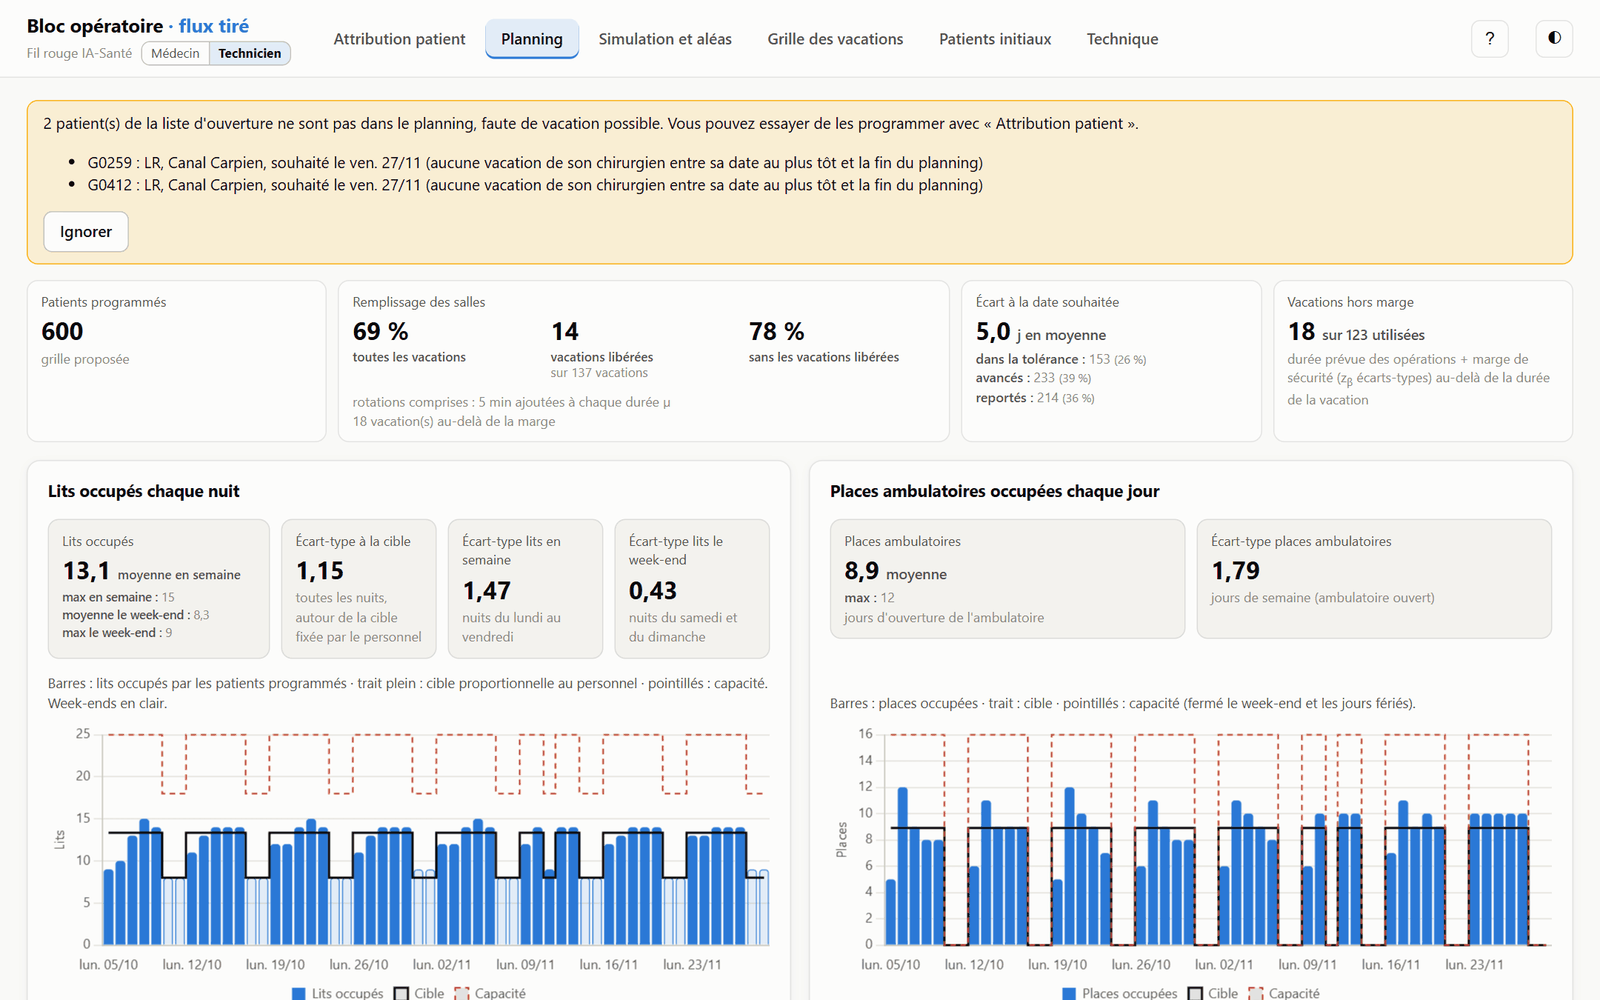
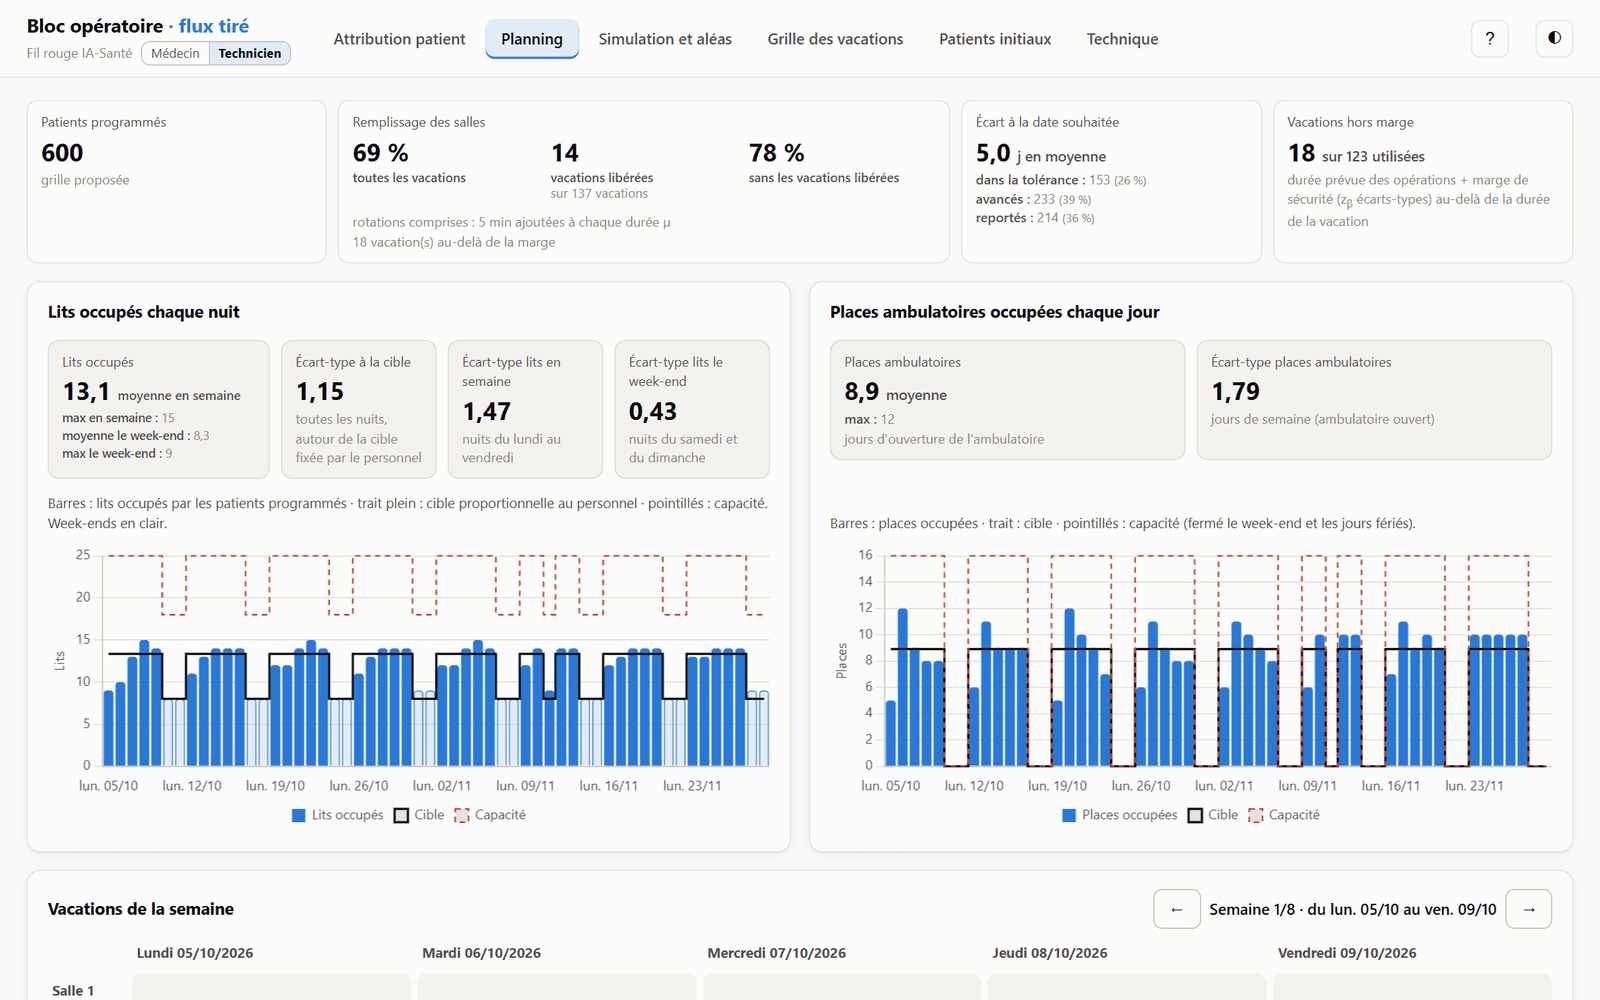
README : besoin, résultats chiffrés, architecture et formule de F
Ajoute le besoin du client, la difficulté du problème, les résultats
(prédiction, comparaison des 8 méthodes, robustesse, grille, poids),
un schéma d'architecture, la formule de F, les technologies et les
limites. Captures du planning et de l'attribution refaites.

diff --git a/README.md b/README.md
@@ -4,13 +4,13 @@
 
 **Programmer les opérations d'un bloc opératoire en tenant compte, en même temps, des salles, des lits d'hospitalisation et des places ambulatoires.**
 
-Projet fil rouge IA-Santé : prédiction par apprentissage automatique, métaheuristiques et système multi-agents
+Outil d'aide à la décision : prédiction par apprentissage automatique, métaheuristiques hybrides et système multi-agents
 
 ![Python](https://img.shields.io/badge/Python-3.11%2B-3776AB?logo=python&logoColor=white)
 ![Flask](https://img.shields.io/badge/Flask-3.1-000000?logo=flask&logoColor=white)
 ![scikit-learn](https://img.shields.io/badge/scikit--learn-1.9-F7931E?logo=scikitlearn&logoColor=white)
 ![Mesa](https://img.shields.io/badge/Mesa-3.5-2E7D32)
-![Tests](https://img.shields.io/badge/tests-pytest-0A9EDC?logo=pytest&logoColor=white)
+![Tests](https://img.shields.io/badge/tests-73%20pytest-0A9EDC?logo=pytest&logoColor=white)
 
 <img src="docs/captures/03_planning.png" alt="Onglet Planning : lits occupés chaque nuit et places ambulatoires occupées chaque jour" width="900">
 
@@ -21,33 +21,73 @@ Projet fil rouge IA-Santé : prédiction par apprentissage automatique, métaheu
 >
 > 👥 **Équipe :** David LANSADE, Robin CURSENTE, Clément MORIN, Rafael LAZAR.
 
+<div align="center">
+
+| 📊 **14 649** | ⚙ **8** | ⏱ **≈ 16 s** | 🛡 **+10 points** |
+|:---:|:---:|:---:|:---:|
+| séjours chirurgicaux réels (2019-2022) pour apprendre | méthodes d'optimisation comparées à budget égal | pour programmer 600 patients sur 8 semaines (meilleur hybride) | de robustesse en situation de crise grâce aux agents |
+
+</div>
+
 ---
 
 ## Sommaire
 
-- [Le problème](#le-problème)
+- [Le besoin](#le-besoin)
+- [Pourquoi c'est difficile](#pourquoi-cest-difficile)
 - [Ce que fait le logiciel](#ce-que-fait-le-logiciel)
 - [Captures d'écran](#captures-décran)
+- [Résultats](#résultats)
+- [Architecture](#architecture)
 - [Installation et lancement](#installation-et-lancement)
 - [Utilisation pas à pas](#utilisation-pas-à-pas)
 - [Comment ça marche](#comment-ça-marche)
+- [Technologies](#technologies)
 - [Structure du dépôt](#structure-du-dépôt)
 - [Pour les développeurs](#pour-les-développeurs)
+- [Limites et pistes](#limites-et-pistes)
 - [Données](#données)
 - [Auteurs](#auteurs)
 
 ---
 
-## Le problème
+## Le besoin
 
-Aujourd'hui, la programmation du bloc fonctionne en **flux poussé** : le chirurgien fixe une date d'opération, puis
-l'hôpital cherche un lit. Les manques n'apparaissent qu'au dernier moment, ce qui oblige à déprogrammer, et le
-remplissage des lits alterne entre des **pics** et des **creux**.
+Le bloc opératoire est l'un des plateaux techniques les plus coûteux d'un hôpital, et il commande l'activité des
+services qui reçoivent les patients après l'intervention : les **lits d'hospitalisation** et les **places de
+chirurgie ambulatoire**.
 
-Ce projet inverse la logique (**flux tiré**) : l'outil part de la capacité de l'hôpital (salles, lits, places
-ambulatoires, personnel) et **propose au chirurgien les meilleures dates**. Le médecin garde toujours la décision.
+Aujourd'hui, la programmation fonctionne en **flux poussé** : le chirurgien fixe une date avec son patient, puis le
+service cherche un lit. Les manques n'apparaissent qu'au dernier moment, ce qui oblige à déprogrammer, et le
+remplissage des lits devient erratique : pour une même capacité, de 15 à 42 lits chirurgicaux sont occupés d'une
+période à l'autre. Le problème tient autant au **moment** des admissions qu'à leur **volume**.
+
+Le médecin à l'origine du projet attendait un outil qui :
+
+- **propose des dates** à chaque patient en tenant compte des lits et des salles disponibles ;
+- **anticipe** l'occupation à venir au lieu de subir les pics ;
+- **lisse** l'occupation des lits, ce qui réduit le nombre de lits nécessaires et apaise les équipes ;
+- **réduit l'attente** des patients ;
+- laisse **toujours la décision au médecin**, avec des propositions qu'il peut comprendre.
+
+Ce projet répond à ce besoin par un **flux tiré** : l'outil part de la capacité de l'hôpital et répond au chirurgien
+« voici les trois meilleures dates, et pourquoi » plutôt que « quelle date voulez-vous ? ».
 
 > Les consignes initiales du projet sont dans [`docs/Optimisation_bloc_operatoire_IA.pptx`](docs/Optimisation_bloc_operatoire_IA.pptx).
+
+## Pourquoi c'est difficile
+
+- **Combinatoire.** Ouvrir un hôpital revient à placer environ 600 patients dans 137 vacations (les créneaux de salle
+  de chaque chirurgien) sur 8 semaines, soit environ 2 870 variables binaires (patient, vacation possible).
+- **Objectif non linéaire.** La fonction de coût contient des carrés, des parties positives et une racine, et les
+  cibles d'occupation dépendent elles-mêmes de la solution. Une résolution exacte par programmation linéaire en
+  nombres entiers est donc peu adaptée, d'où le choix des **métaheuristiques**.
+- **Incertitude.** Les durées d'intervention et de séjour ne sont pas connues à l'avance, et les urgences, les
+  annulations ou les fermetures de lits perturbent le planning.
+- **Objectifs contradictoires.** Lisser les lits, remplir les salles sans les faire déborder, respecter les délais
+  médicaux et les souhaits des patients ne vont pas dans le même sens.
+- **Explicabilité.** Un médecin n'adoptera pas une date sortie d'une boîte noire : chaque proposition doit être
+  justifiée.
 
 ## Ce que fait le logiciel
 
@@ -69,21 +109,107 @@ L'interface a deux modes :
 
 <table>
 <tr>
-<td width="50%"><b>Présentation du site</b><br><img src="docs/captures/01_presentation.png" alt="Présentation du site"></td>
-<td width="50%"><b>Patients initiaux</b> : patients inventés à partir de l'activité réelle, comparés à la base<br><img src="docs/captures/02_patients_initiaux.png" alt="Patients initiaux"></td>
-</tr>
-<tr>
-<td><b>Attribution patient</b> : prédiction et dates A / B / C expliquées<br><img src="docs/captures/04_attribution_patient.png" alt="Attribution patient"></td>
-<td><b>Planning</b> : lits par nuit, places ambulatoires par jour, remplissage des salles<br><img src="docs/captures/03_planning.png" alt="Planning"></td>
+<td width="50%"><b>Attribution patient</b> : prédiction et dates A / B / C expliquées<br><img src="docs/captures/04_attribution_patient.png" alt="Attribution patient"></td>
+<td width="50%"><b>Planning</b> : lits par nuit, places ambulatoires par jour, remplissage des salles<br><img src="docs/captures/03_planning.png" alt="Planning"></td>
 </tr>
 <tr>
 <td><b>Grille des vacations</b> : ancienne grille et grille proposée<br><img src="docs/captures/06_grille_vacations.png" alt="Grille des vacations"></td>
 <td><b>Simulation et aléas</b> : système multi-agents face aux imprévus<br><img src="docs/captures/05_simulation_aleas.png" alt="Simulation et aléas"></td>
 </tr>
 <tr>
-<td colspan="2"><b>Technique</b> : poids de la fonction objectif, capacités, délais, comparaison des métaheuristiques<br><img src="docs/captures/07_technique.png" alt="Technique" width="70%"></td>
+<td><b>Patients initiaux</b> : patients inventés à partir de l'activité réelle, comparés à la base<br><img src="docs/captures/02_patients_initiaux.png" alt="Patients initiaux"></td>
+<td><b>Technique</b> : poids de la fonction objectif, capacités, délais<br><img src="docs/captures/07_technique.png" alt="Technique"></td>
+</tr>
+<tr>
+<td colspan="2" align="center"><b>Présentation du site</b><br><img src="docs/captures/01_presentation.png" alt="Présentation du site" width="70%"></td>
 </tr>
 </table>
+
+## Résultats
+
+**Protocole.** Ouverture d'un hôpital fictif : 600 patients générés sur 8 semaines (598 programmables, 2 n'ayant
+aucune vacation possible dans l'horizon), 137 vacations, 48 204 minutes d'interventions demandées pour 70 050 minutes
+offertes. Chaque méthode reçoit la même solution de départ, les mêmes graines (5) et le même budget de
+**200 000 évaluations de F**. Machine : AMD Ryzen AI 7 350, 32 Go de RAM.
+
+### Prédiction : apprendre sur 2019-2021, tester sur 2022
+
+| Méthode | Erreur moyenne sur la durée | Erreur moyenne sur les nuits | Ambulatoire bien classé |
+|---|---:|---:|---:|
+| Moyenne globale (référence naïve) | 29,8 min | 1,18 nuit | 54,0 % |
+| Étude statistique (cas similaires) | 16,7 min | 0,44 nuit | 88,4 % |
+| **Gradient boosting** | **14,5 min** | **0,35 nuit** | **91,9 %** |
+
+Test sur 3 669 séjours de 2022. Exclure les mois de COVID-19 n'améliore pas les modèles : ils sont gardés.
+
+### Optimisation : 8 méthodes comparées à budget égal
+
+| Méthode | Famille | F moyen (écart-type) | Écart-type des lits | Vacations hors marge | Temps |
+|---|---|---:|---:|---:|---:|
+| **Génétique → Recuit** | hybride en relais | **11 934** (34) | **1,13** | 18 | 16 s |
+| Recuit → Tabou | hybride en relais | 11 950 (41) | 1,39 | 17 | 11 s |
+| Recuit simulé | seule | 11 982 (50) | 1,40 | 15 | 11 s |
+| Génétique → Tabou | hybride en relais | 12 009 (40) | 1,38 | 15 | 15 s |
+| Recuit à liste tabou | hybride intégré | 12 013 (18) | 1,30 | 18 | 11 s |
+| Algorithme mémétique | hybride intégré | 12 033 (17) | 1,36 | 17 | 11 s |
+| Recherche tabou | seule | 12 061 (111) | 1,29 | 17 | 9 s |
+| Algorithme génétique | seule | 13 286 (384) | 1,77 | 19 | 64 s |
+| *Insertion gloutonne* | *référence* | *33 441* | *2,18* | *33* | |
+| *Solution aléatoire* | *référence* | *438 027* | *5,16* | *38* | |
+
+- Le meilleur hybride (Génétique → Recuit) fait **2,8 fois mieux que l'insertion gloutonne**, en respectant toutes les
+  capacités de lits et de places.
+- Hors algorithme génétique seul, les méthodes se tiennent à environ 1 % près : **l'optimisation globale compte beaucoup plus
+  que le choix fin de la métaheuristique**.
+
+### Robustesse : le planning face aux imprévus
+
+Le meilleur planning est rejoué jour après jour avec trois stratégies, sur **20 tirages appariés** (mêmes aléas et
+mêmes nouveaux patients pour les trois stratégies).
+
+| Situation | Score R sans coordination | Score R avec les agents | Score R réoptimisation centralisée | Lits manquants (sans coord. → agents) |
+|---|---:|---:|---:|---:|
+| Aléas ordinaires | 87,2 | **87,9** | 87,2 | 0 → 0 |
+| Ordinaires + nouveaux patients | 84,2 | **85,0** | 84,4 | 0 → 0 |
+| 10 lits fermés + nouveaux patients | 75,0 | **80,0** | 79,6 | 18,2 → 7,9 (**−57 %**) |
+| Crise + nouveaux patients | 50,7 | **60,7** | 59,5 | 66,5 → 36,1 (**−46 %**) |
+
+La coordination entre le bloc et les services d'hospitalisation ne paie vraiment que **quand les lits manquent** :
++0,7 point en régime ordinaire, **+10 points en crise**. La réoptimisation centralisée s'en approche, mais elle est
+5 à 9 fois plus lente et ne comble pas les annulations.
+
+### Grille des vacations et poids de F
+
+- **Nouvelle grille** : avec les mêmes patients et une offre de bloc presque identique, elle **divise F par 4,7**
+  (11 872 contre 55 336 avec la grille actuelle), réduit de moitié les vacations hors marge (17-18 contre 35-38),
+  **double la réserve d'urgences** (15,5 h contre 7,5 h par semaine) et passe d'un cycle de 4 à 2 semaines.
+- **Poids de F** : choisis par **optimisation bayésienne sous contraintes** (processus gaussien, 201 jeux évalués),
+  puis validés sur d'autres graines et d'autres tirages. Score de robustesse moyen : 84,6 contre 82,8 pour le barème
+  initial (+1,8 ± 0,6 point).
+
+> Ces expériences peuvent être refaites depuis l'application (onglet **Technique** pour la comparaison des méthodes,
+> onglet **Simulation et aléas** pour la robustesse et les scénarios) ou avec les scripts de `scripts/`.
+
+## Architecture
+
+```mermaid
+flowchart LR
+    A[("Base des séjours<br/>2019-2022")] --> B["Nettoyage<br/>tri urgences / programmé"]
+    B --> C["Prédiction<br/>gradient boosting"]
+    B --> D["Nouvelle grille<br/>des vacations"]
+    C --> E["Générateur<br/>de patients"]
+    E --> F["Métaheuristiques<br/>et hybrides"]
+    D --> F
+    W["Optimisation bayésienne<br/>des poids de F"] -.-> F
+    F --> G["Planning<br/>d'ouverture"]
+    G --> H["Attribution en ligne<br/>dates A / B / C"]
+    C --> H
+    G --> I["Simulation multi-agents<br/>score de robustesse R"]
+```
+
+L'ensemble est servi par une application **Flask** ; l'interface (HTML, CSS, JavaScript sans framework) appelle une
+API JSON. Les calculs longs (optimisation, simulations) tournent en tâche de fond et en parallèle sur plusieurs
+processus, avec des résultats identiques à l'exécution séquentielle.
 
 ## Installation et lancement
 
@@ -139,36 +265,66 @@ Le bouton **?** de l'en-tête ouvre une présentation complète du site.
    meilleure solution est « adoptée » comme planning initial.
 2. **Patients un par un.** Le modèle prédit durée, ambulatoire et nuits ; le moteur essaie toutes les vacations
    admissibles en gardant les autres patients fixés (insertion gloutonne) et propose jusqu'à trois dates sur des
-   jours différents.
+   jours différents, chacune accompagnée de l'effet sur chaque terme de F.
 
 ### La fonction objectif F
 
-F additionne des pénalités pondérées :
+Le planning $x$ affecte chaque patient $i$ à une vacation de son chirurgien. Il minimise :
 
-| Poids | Terme |
-|---|---|
-| W1, W1′ | lissage des lits occupés et des places ambulatoires autour d'une cible proportionnelle au personnel |
-| W2 | regroupement des patients pour libérer des vacations entières |
-| W3 | retard au-delà de la limite médicale, pondéré par l'urgence du diagnostic w_i |
-| W4 | dépassement des capacités (lits, places) |
-| W5 | marge d'aléa des salles : Σµ + z_β·√Σσ² ne doit pas dépasser la durée de la vacation |
-| W6 | écart à la date souhaitée par le patient (au-delà de la tolérance τ_i) |
+```math
+\begin{aligned}
+F(x) = {} & W_1 \sum_t \left(n_t - n_t^*\right)^2 + W_1' \sum_t \left(a_t - a_t^*\right)^2 \\
+& + W_2 \sum_{v \,:\, c_v > 0} \left[ (H_v - c_v)^+ + \varepsilon \, \frac{c_v \, (H_v - c_v)^+}{H_v} \right]
+  + W_3 \sum_i w_i \, (j_i - d_i)^+ \\
+& + W_4 \left[ \sum_t \left( (n_t - C_L(t))^+ \right)^2 + \sum_t \left( (a_t - C_A(t))^+ \right)^2 \right] \\
+& + W_5 \sum_v \left( \left( c_v + z_\beta \sqrt{q_v} - H_v \right)^+ \right)^2
+  + W_6 \sum_i \left[ (s_i - j_i)^+ + (j_i - s_i - \tau_i)^+ \right]
+\end{aligned}
+```
 
-Les poids par défaut viennent d'une **optimisation bayésienne sous contraintes** (`scripts/optimisation_poids.py`).
+avec $n_t$ et $a_t$ les lits et places ambulatoires occupés le jour $t$, $n_t^\ast$ et $a_t^\ast$ leurs cibles
+(proportionnelles au personnel présent, plus basses le week-end), $c_v$ la durée prévue des interventions de la
+vacation $v$, $q_v$ la somme de leurs variances, $H_v$ sa durée, $j_i$ le jour d'intervention, $d_i$ la limite
+médicale, $s_i$ la date souhaitée et $\tau_i$ la tolérance.
+
+| Poids | Terme | Défaut |
+|---|---|---:|
+| W1, W1′ | lissage des lits et des places autour de leur cible | 1 ; 2,5 |
+| W2 | regroupement des patients pour libérer des vacations entières (guidage ε = 0,5) | 0,012 |
+| W3 | retard au-delà de la limite médicale, pondéré par l'urgence du diagnostic w_i | 30 |
+| W4 | dépassement des capacités de lits et de places (quasi-interdiction) | 100 |
+| W5 | marge d'aléa des salles : avec z_β = 1, une vacation qui la respecte finit à l'heure environ 84 fois sur 100 | 0,19 |
+| W6 | écart à la date souhaitée par le patient, au-delà de la tolérance | 0,014 |
 
 ### Les méthodes d'optimisation
 
 - **Recuit simulé**, **recherche tabou**, **algorithme génétique** (`src/metaheuristiques/`)
 - **Hybrides** : relais Recuit → Tabou, Génétique → Recuit, Génétique → Tabou, algorithme mémétique, recuit à liste tabou
-- Évaluation de F **vectorisée** (numpy) et **incrémentale** pour aller vite, avec des tests qui vérifient l'égalité
-  exacte avec l'implémentation de référence.
+- Évaluation de F **vectorisée** (numpy) et **incrémentale** (un déplacement ou un échange est évalué sans recalculer
+  tout le planning), ce qui permet des centaines de milliers d'évaluations en quelques secondes. Des tests vérifient
+  l'égalité exacte avec l'implémentation de référence.
 
 ### Simulation multi-agents (Mesa)
 
 Trois agents, **Bloc**, **Lits** et **Ambulatoire**, réagissent aux aléas tirés avec une graine (urgences réelles
 de la base, annulations, lits fermés, durées N(µ, σ), séjours prolongés, refus des patients, nouveaux patients en
-flux). Trois stratégies sont comparées sur les mêmes aléas : sans coordination, avec les agents, et réoptimisation
-centralisée. Un **score de robustesse R sur 100** (12 critères) note chaque planning.
+flux). Quand une nuit va manquer de lits, l'agent Lits demande au Bloc de décaler un patient qui n'est pas encore
+convoqué ; le Bloc propose ses dates de la plus faible hausse de F à la plus forte. Trois stratégies sont comparées sur
+les mêmes aléas : sans coordination, avec les agents, et réoptimisation centralisée. Un **score de robustesse R sur
+100** (12 critères) note chaque planning.
+
+## Technologies
+
+| Domaine | Outils |
+|---|---|
+| Langage et serveur | Python, Flask |
+| Calcul scientifique | numpy, pandas, scipy |
+| Apprentissage automatique | scikit-learn : `HistGradientBoostingRegressor` / `Classifier` (prédiction), processus gaussien (optimisation bayésienne des poids) |
+| Optimisation | métaheuristiques et hybrides écrits à la main, sans solveur externe |
+| Multi-agents | Mesa |
+| Interface | HTML, CSS, JavaScript sans framework, Chart.js, KaTeX, thème clair / sombre |
+| Exports | openpyxl (Excel), impression PDF depuis le navigateur |
+| Qualité | pytest (73 tests), exécution parallèle reproductible (graines fixées) |
 
 ## Structure du dépôt
 
@@ -226,7 +382,10 @@ centralisée. Un **score de robustesse R sur 100** (12 critères) note chaque pl
 | `scripts/balayage_poids.py` | balayage des poids W_k de F (×0,2 à ×5) sur des plannings simulés |
 | `scripts/optimisation_poids.py` | optimisation bayésienne sous contraintes des poids par défaut de F |
 
-### Format de `d` et `evaluer`
+<details>
+<summary><b>Format de <code>d</code> et <code>evaluer</code></b></summary>
+
+<br>
 
 La signature `evaluer(solution, d)` est stable. **Sans les clés facultatives ci-dessous, le résultat est exactement
 celui de la version de référence** (vérifié par `tests/test_modele.py`).
@@ -244,9 +403,15 @@ celui de la version de référence** (vérifié par `tests/test_modele.py`).
 Deux évaluateurs plus rapides donnent la même valeur : `EvaluateurVect(d)(solution)` (numpy) et
 `Evaluateur(d, solution)` (incrémental : `essayer(i, v)`, `deplacer(i, v)`, `essayer_echange(i, k)`).
 
-### Choix de modélisation
+</details>
 
-- **Capacités** : pénalités W4 et W5 plutôt que le rejet des voisins infaisables.
+<details>
+<summary><b>Choix de modélisation</b></summary>
+
+<br>
+
+- **Capacités** : pénalités W4 et W5 plutôt que le rejet des voisins infaisables, pour que les métaheuristiques
+  puissent traverser des solutions légèrement infaisables.
 - **Nuits** L_i = sortie − entrée, comptées à partir du jour opératoire.
 - **Urgences hors de F** : F ne porte que sur les patients programmés ; les urgences gardent leur réserve de salle
   dans la grille et leur profil moyen sert de prévision aux agents de la simulation.
@@ -259,12 +424,28 @@ Deux évaluateurs plus rapides donnent la même valeur : `EvaluateurVect(d)(solu
   entières privilégiées, jours de consultation respectés, longs séjours évités en fin de semaine, équilibre entre
   semaines paires et impaires).
 
+</details>
+
+## Limites et pistes
+
+- **Patients inventés.** Les patients de l'ouverture et les nouveaux patients de la simulation sont générés à partir
+  des distributions de la base. La base ne contient ni la date des demandes ni les refus de changement de date : les
+  délais et les probabilités de refus sont des hypothèses.
+- **Paramètres fixés à dire d'expert.** L'effectif du week-end, les délais d'accueil, les seuils et poids du score de
+  robustesse n'ont pas pu être mesurés.
+- **Interventions rares.** 92 % des couples (type d'intervention, chirurgien) comptent moins de 10 cas en quatre
+  ans : les prédictions y reposent sur peu d'exemples (ces couples ne représentent toutefois que 13 % des patients).
+- **Horizon fixe.** L'horizon de planification ne glisse pas encore au fil des jours, alors qu'un hôpital planifie
+  en continu.
+- **Pauses déjeuner** non modélisées dans le programme horaire.
+- **Validation terrain.** Prochaine étape : confronter les plannings proposés à l'avis des équipes du bloc.
+
 ## Données
 
 Le dossier `data/` contient les deux classeurs fournis pour le projet :
 
-- `donees bloc anonyme pour centrale 2026.xlsx` : environ 14 650 séjours chirurgicaux de 2019 à 2022 (dates,
-  diagnostics CIM-10, actes CCAM, horaires de bloc, type d'anesthésie, durée de séjour) ;
+- `donees bloc anonyme pour centrale 2026.xlsx` : 14 649 séjours chirurgicaux de 2019 à 2022 (23 chirurgiens,
+  54,5 % d'ambulatoire ; dates, diagnostics CIM-10, actes CCAM, horaires de bloc, type d'anesthésie, durée de séjour) ;
 - `Vacations Opératoires anonymiséees.xlsx` : la grille hebdomadaire des vacations des 5 salles.
 
 Ces données servent uniquement à un usage pédagogique, dans le cadre du projet.
